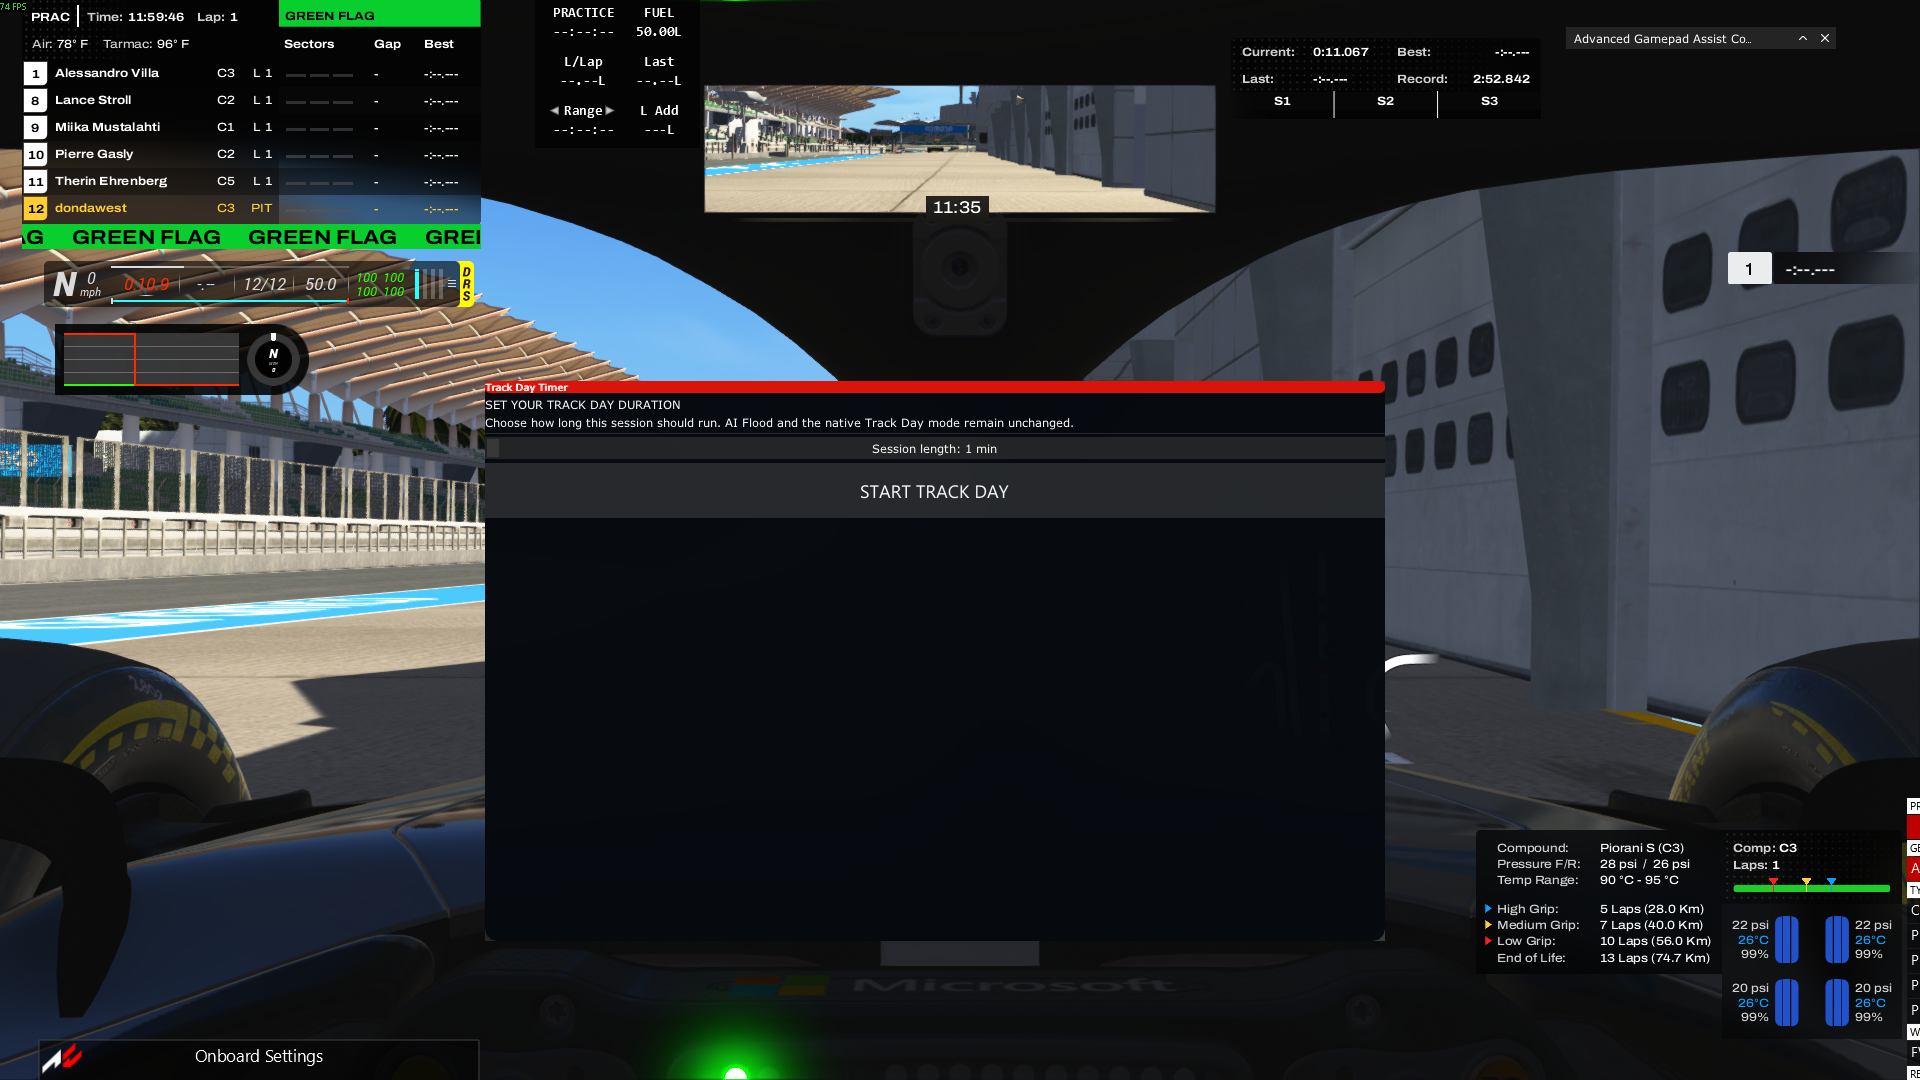
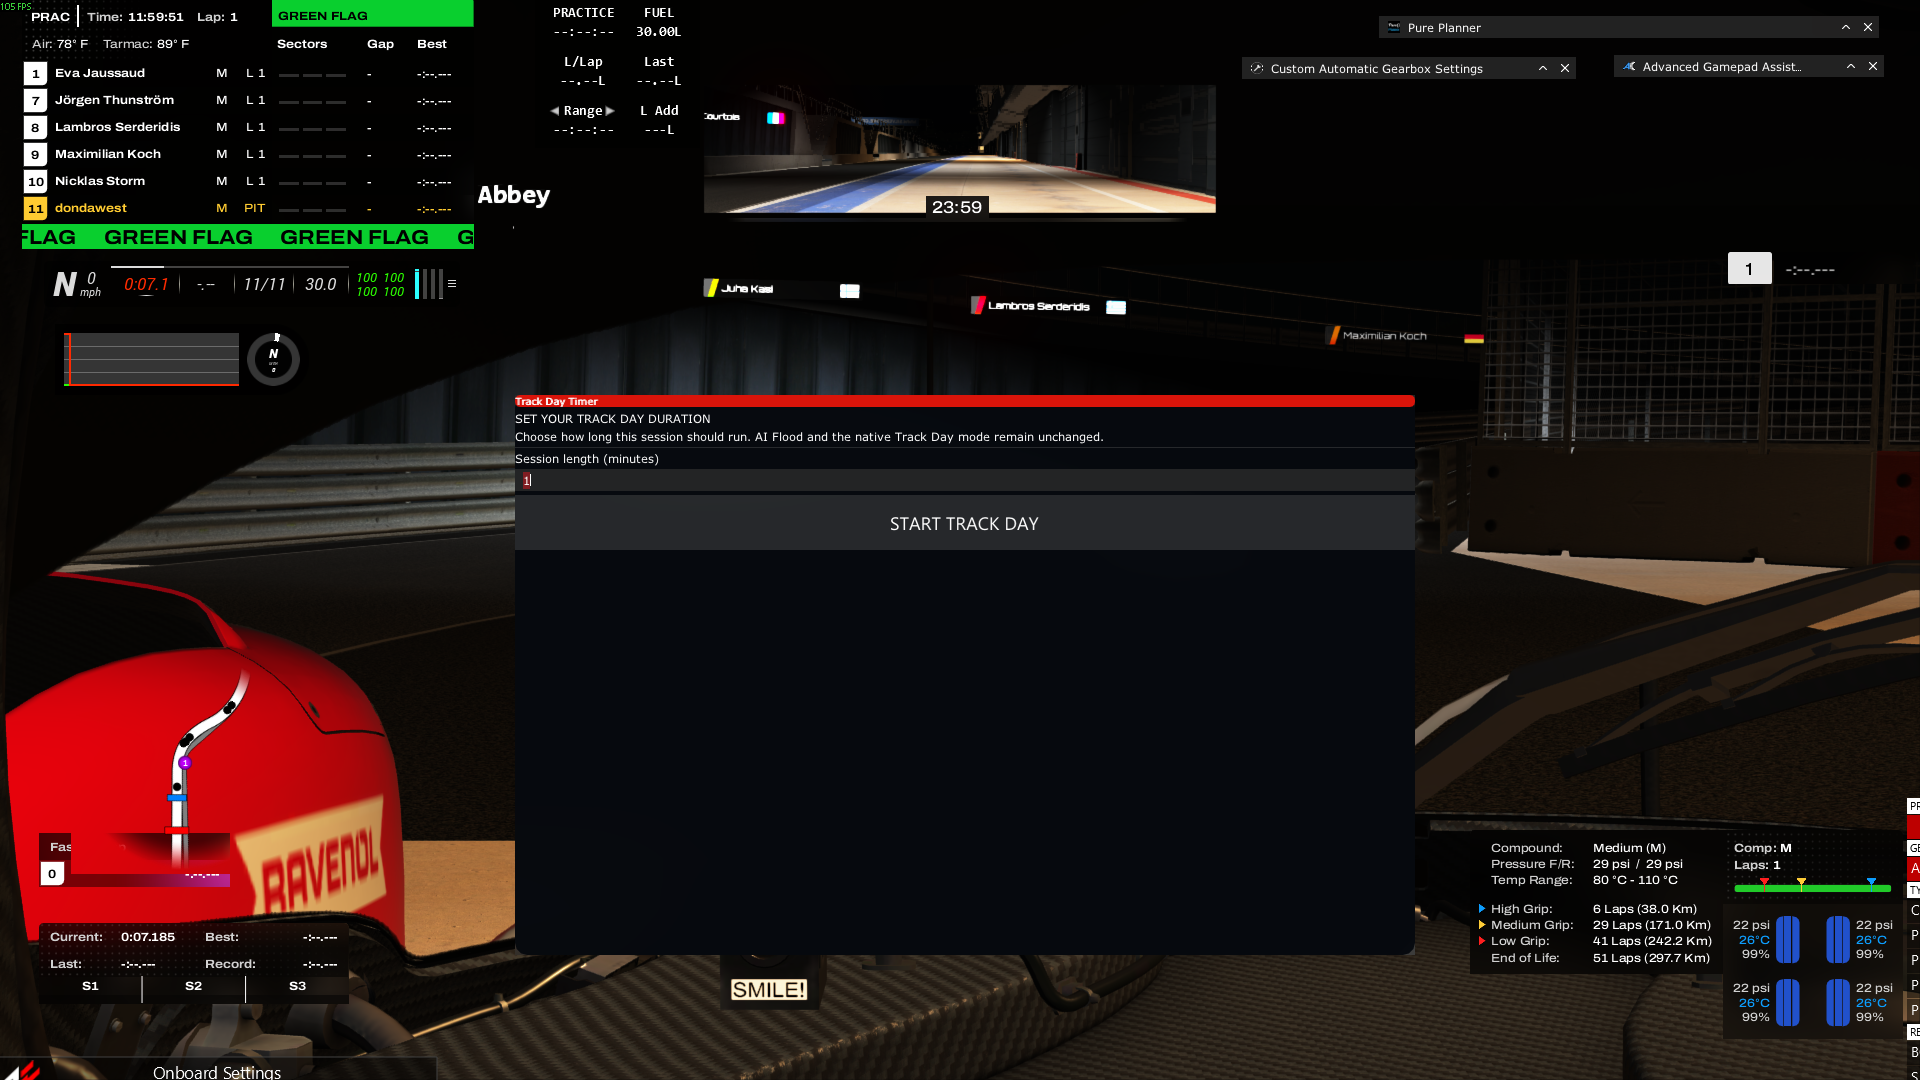
Update Track Day Timer README

diff --git a/README.md b/README.md
@@ -9,16 +9,15 @@ executable, session mode, and CSP AI Flood implementation untouched.
 
 - ⏱ **In-Game Duration Prompt**: An automatically opened centered setup panel accepts a typed
   duration from 1–180 minutes and focuses the input automatically.
-- 📐 **Resizable Setup Panel**: The setup panel can be resized by dragging its edge, with
-  sensible minimum and maximum bounds.
 - 💾 **Persistent Settings**: Selected session lengths are saved in Content Manager presets and persist across restarts.
 - 🚦 **AI Flood Compatibility**: Uses the original Content Manager and preserves native Track Day
   mode selection, CSP, spawn behavior, and AI cars unchanged.
 - 🏁 **Session-Over Message**: Displays **`TRACK DAY OVER`** when the app timer expires.
 - 🔄 **Lap-Safe End Flow**: After expiry, the app waits for the current lap to finish or for the
   car to enter the pits, then teleports to the pits and ends Assetto Corsa.
-- 📌 **Automatic App Opening**: The timer opens automatically when a Track Day starts and is
-  positioned beside the native Session Control panel.
+- 📌 **Automatic App Opening**: After you finish setting up the timer in the pits and click
+  **Drive**, the timer opens automatically. Once the timer has been set, the setup panel closes
+  and the session begins.
 - 🕒 **Draggable Timer HUD**: After starting, the setup panel closes automatically and only a
   large text-only timer remains with no surrounding window background. It can be dragged anywhere.
 
@@ -51,10 +50,11 @@ visible as text only:
    app and does not patch `Content Manager.exe` or `acs.exe`.
 5. Launch the same native **Track Day** configuration that previously worked with AI Flood.
 6. Restart Assetto Corsa once after installation so CSP rescans the Lua app manifest.
-7. When the session starts, the Track Day Timer setup screen opens automatically and focuses the
-   minutes field. Type a value from 1 to 180, then press **START TRACK DAY** or Enter.
-8. The setup screen closes and the transparent timer HUD appears. Drag it to the preferred
-   position; CSP saves that HUD position for later sessions.
+7. After finishing the setup in the pits, click **Drive**. The Track Day Timer setup screen
+   opens automatically and focuses the minutes field. Type a value from 1 to 180, then press
+   **START TRACK DAY** or Enter.
+8. After the timer is set, the setup screen closes and the transparent timer HUD appears. Drag it
+   to the preferred position; CSP saves that HUD position for later sessions.
 
 ### Requirements
 
@@ -67,38 +67,24 @@ visible as text only:
 
 ## How It Works
 
-### TrackdayTimer Lua App (CSP)
-Custom Shaders Patch runs `apps/lua/TrackdayTimer/` in the background during Track Day sessions:
-- Provides an automatically focused in-game minutes field and Start button. Values are clamped to
-  1–180 minutes.
-- Persists the active timer state with CSP storage, so hiding/restoring apps does not ask for a
-  second timer during the same session.
-- The timer-start confirmation system message disappears after 5 seconds.
-- When the configured time expires, broadcasts **"TRACK DAY OVER"** for 10 seconds and waits for
-  the current lap or pit entry before ending the session.
-- The app opens itself automatically after a Track Day session starts. Its temporary setup window
-  is centered at 900×560, can be resized, and closes after the timer starts. The countdown HUD
-  does not override its position, allowing CSP to preserve the last location where you dragged it.
-  After starting, the HUD is opened once and is not forced open every frame, allowing CSP's global
-  hide/show action to hide and restore it together with the other apps. The controller binding
-  shown in the screenshot is a global CSP action; restoration of third-party apps remains managed
-  by CSP.
-- Timer state is saved with `ac.storage()` and restored when the app is reloaded during the same
-  Track Day session. The native session countdown is also stored as a session fingerprint, so
-  starting a new Track Day with the same session name does not inherit the previous timer. CSP
-  exposes that native countdown in milliseconds, and a reset upward by more than 5,000 milliseconds
-  marks a new session. The selected timer is anchored to that native countdown, so hiding the apps does
-  not pause the countdown while the Lua app is temporarily not being updated.
-  CSP Lua apps cannot inject controls into the built-in Session Control panel.
-- It does not rewrite `race.ini`, change session modes, pause, close the process, alter controls, or
-  manipulate AI vehicles.
+When a Track Day session starts, CSP opens the Track Day Timer app. Enter a duration from 1 to
+180 minutes and select **START TRACK DAY**. The setup panel closes and a draggable countdown HUD
+remains on screen.
 
-The app is available after the game session starts; CSP Lua apps cannot add controls to
-Content Manager's pre-launch Track Day setup screen. A Content Manager slider requires patching
-Content Manager itself, and earlier attempts changed the generated mode and disabled AI Flood.
-The native Content Manager timer experiment is not part of the active installation: it disabled
-AI Flood and must not be used. The original Content Manager executable is restored, and this app
-uses its own timer without changing session mode, `race.ini`, or AI behavior.
+The timer runs alongside the native Track Day session and does not replace Content Manager's
+session controls or CSP AI Flood. When time expires, the app shows **TRACK DAY OVER**, waits for
+the current lap to finish or for the car to enter the pits, then ends the session.
+
+The timer state is stored with CSP so hiding and restoring Lua apps does not restart the timer.
+The app also checks the native session countdown to avoid carrying a timer into a new Track Day
+session with the same name.
+
+### For Modders
+
+The app is in `apps/lua/TrackdayTimer/`. `manifest.ini` defines the CSP Lua app, and
+`TrackdayTimer.lua` contains the timer, setup window, HUD, persistence, and session-end logic.
+The app uses CSP Lua APIs and does not modify `race.ini`, controls, session modes, AI vehicles,
+Content Manager, or the Assetto Corsa executable.
 
 ---
 
@@ -112,35 +98,6 @@ modes use different AI behavior and changing CSP would risk the working baseline
 - **Remove Lua App**: Delete the folder `assettocorsa/apps/lua/TrackdayTimer/`.
 
 ---
-
-## Project Structure
-
-```text
-assetto-corsa-trackday-timer/
-├── apps/
-│   └── lua/
-│       └── TrackdayTimer/
-│           ├── manifest.ini           # CSP Lua app manifest
-│           └── TrackdayTimer.lua      # Native countdown expiry notification
-├── assets/
-│   ├── trackday-timer-setup.png       # Timer duration setup screen
-│   └── trackday-timer-hud.png         # Transparent in-game timer HUD
-├── diffs/
-│   ├── actools_SetSessions.cs         # Code diff for actools.dll
-│   └── QuickDrive_Trackday.cs         # Code diff for QuickDrive_Trackday
-├── scripts/
-│   ├── Patch.ps1                      # Automated compilation & patching script
-│   └── verify_patched_cm.ps1          # IL bytecode verification script
-├── src/
-│   ├── FullPatcher.cs                 # Standalone C# Mono.Cecil patcher tool
-│   ├── TrackdayDurationHelper.cs      # UI layout & binding helper
-│   ├── actools_patched.dll            # Patched actools assembly
-│   ├── actools_compressed.bin         # Deflate-compressed actools resource
-│   └── lib/                           # Mono.Cecil & TrackdayHelper assemblies
-├── Patch.bat                          # 1-Click installer batch script
-└── README.md
-```
-
 ---
 
 ## License
